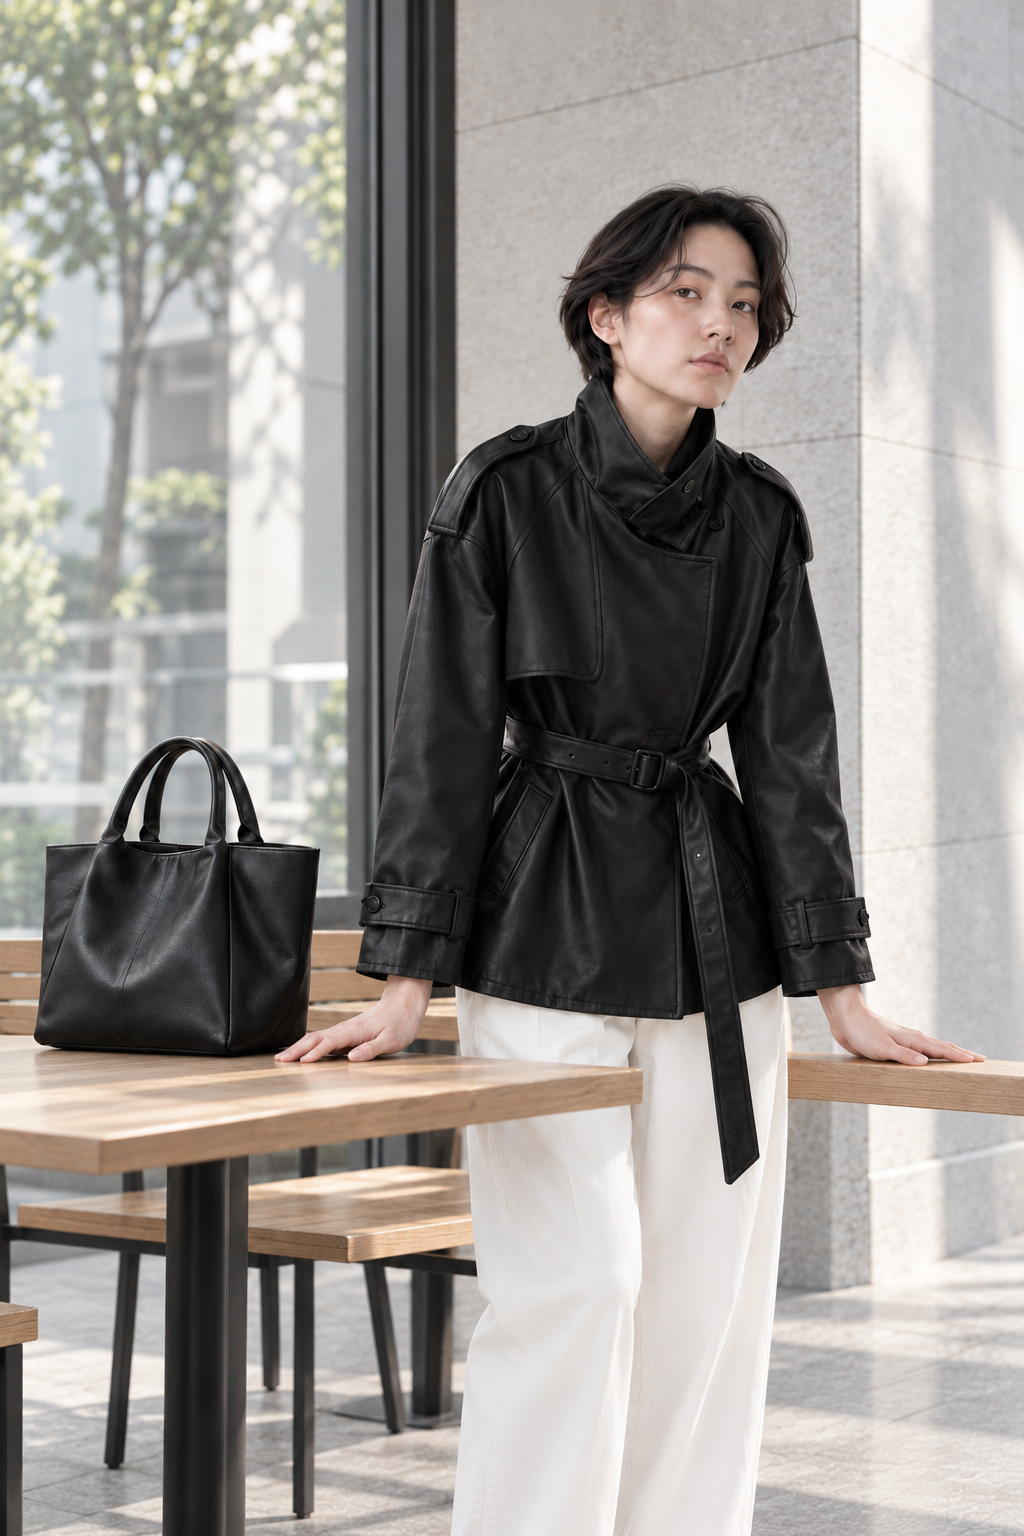
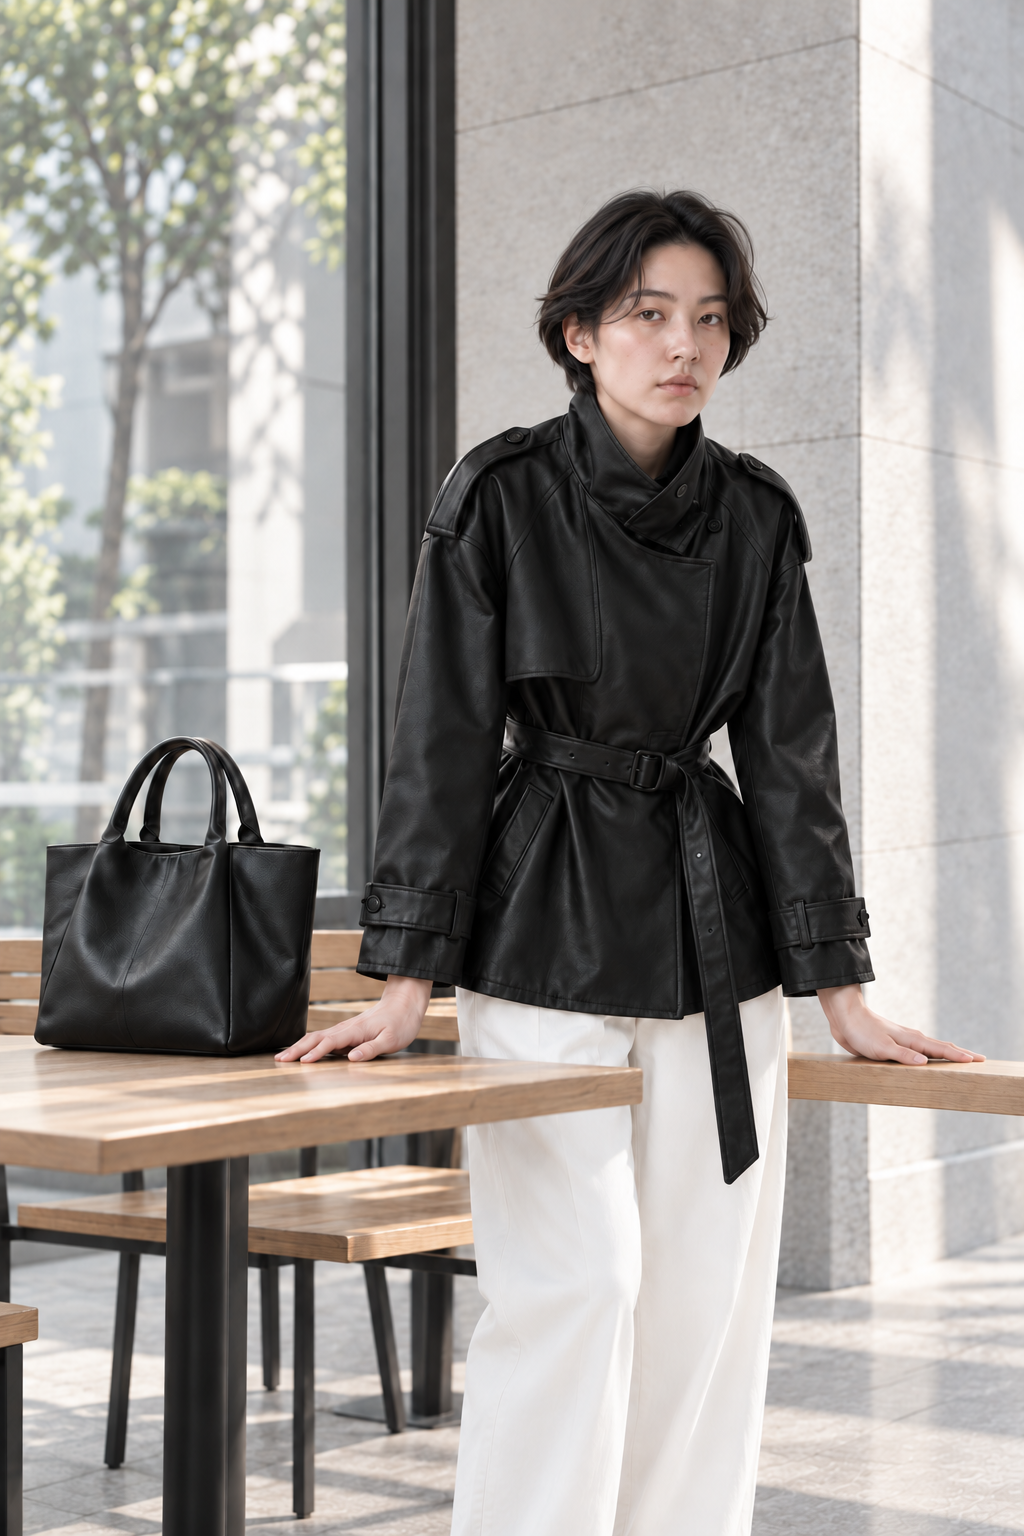
fix(showcase): relax head pose in black-jacket image five

diff --git a/docs/verification/2026-10-03-black-jacket-head-fix.md b/docs/verification/2026-10-03-black-jacket-head-fix.md
@@ -1,0 +1,9 @@
+# Black-jacket image 5 head/neck correction — 2026-10-03
+
+The user identified an awkward raised chin and sideways head tilt in the forward-leaning image and authorized the correction. One built-in image-generation edit reduced both while retaining the same model direction, forward lean, hand support, major jacket/accessory features and office scene. Visual review compared the edit with the previous image and the first image for identity consistency. The new PNG remains 1024×1536.
+
[1 lines of base64/hex data omitted]
+
+Head/neck naturalness is now included in this image's visual review. Fine garment-detail source review remains pending, and the set retains its existing draft status. This edit does not establish a skill-wide defect or beta.11 generation verification.
+
+Validation: 26 showcase tests, the showcase integrity/rights/deployment checker and whitespace checks passed. Publication uses the existing GitHub CI and Pages workflow.
